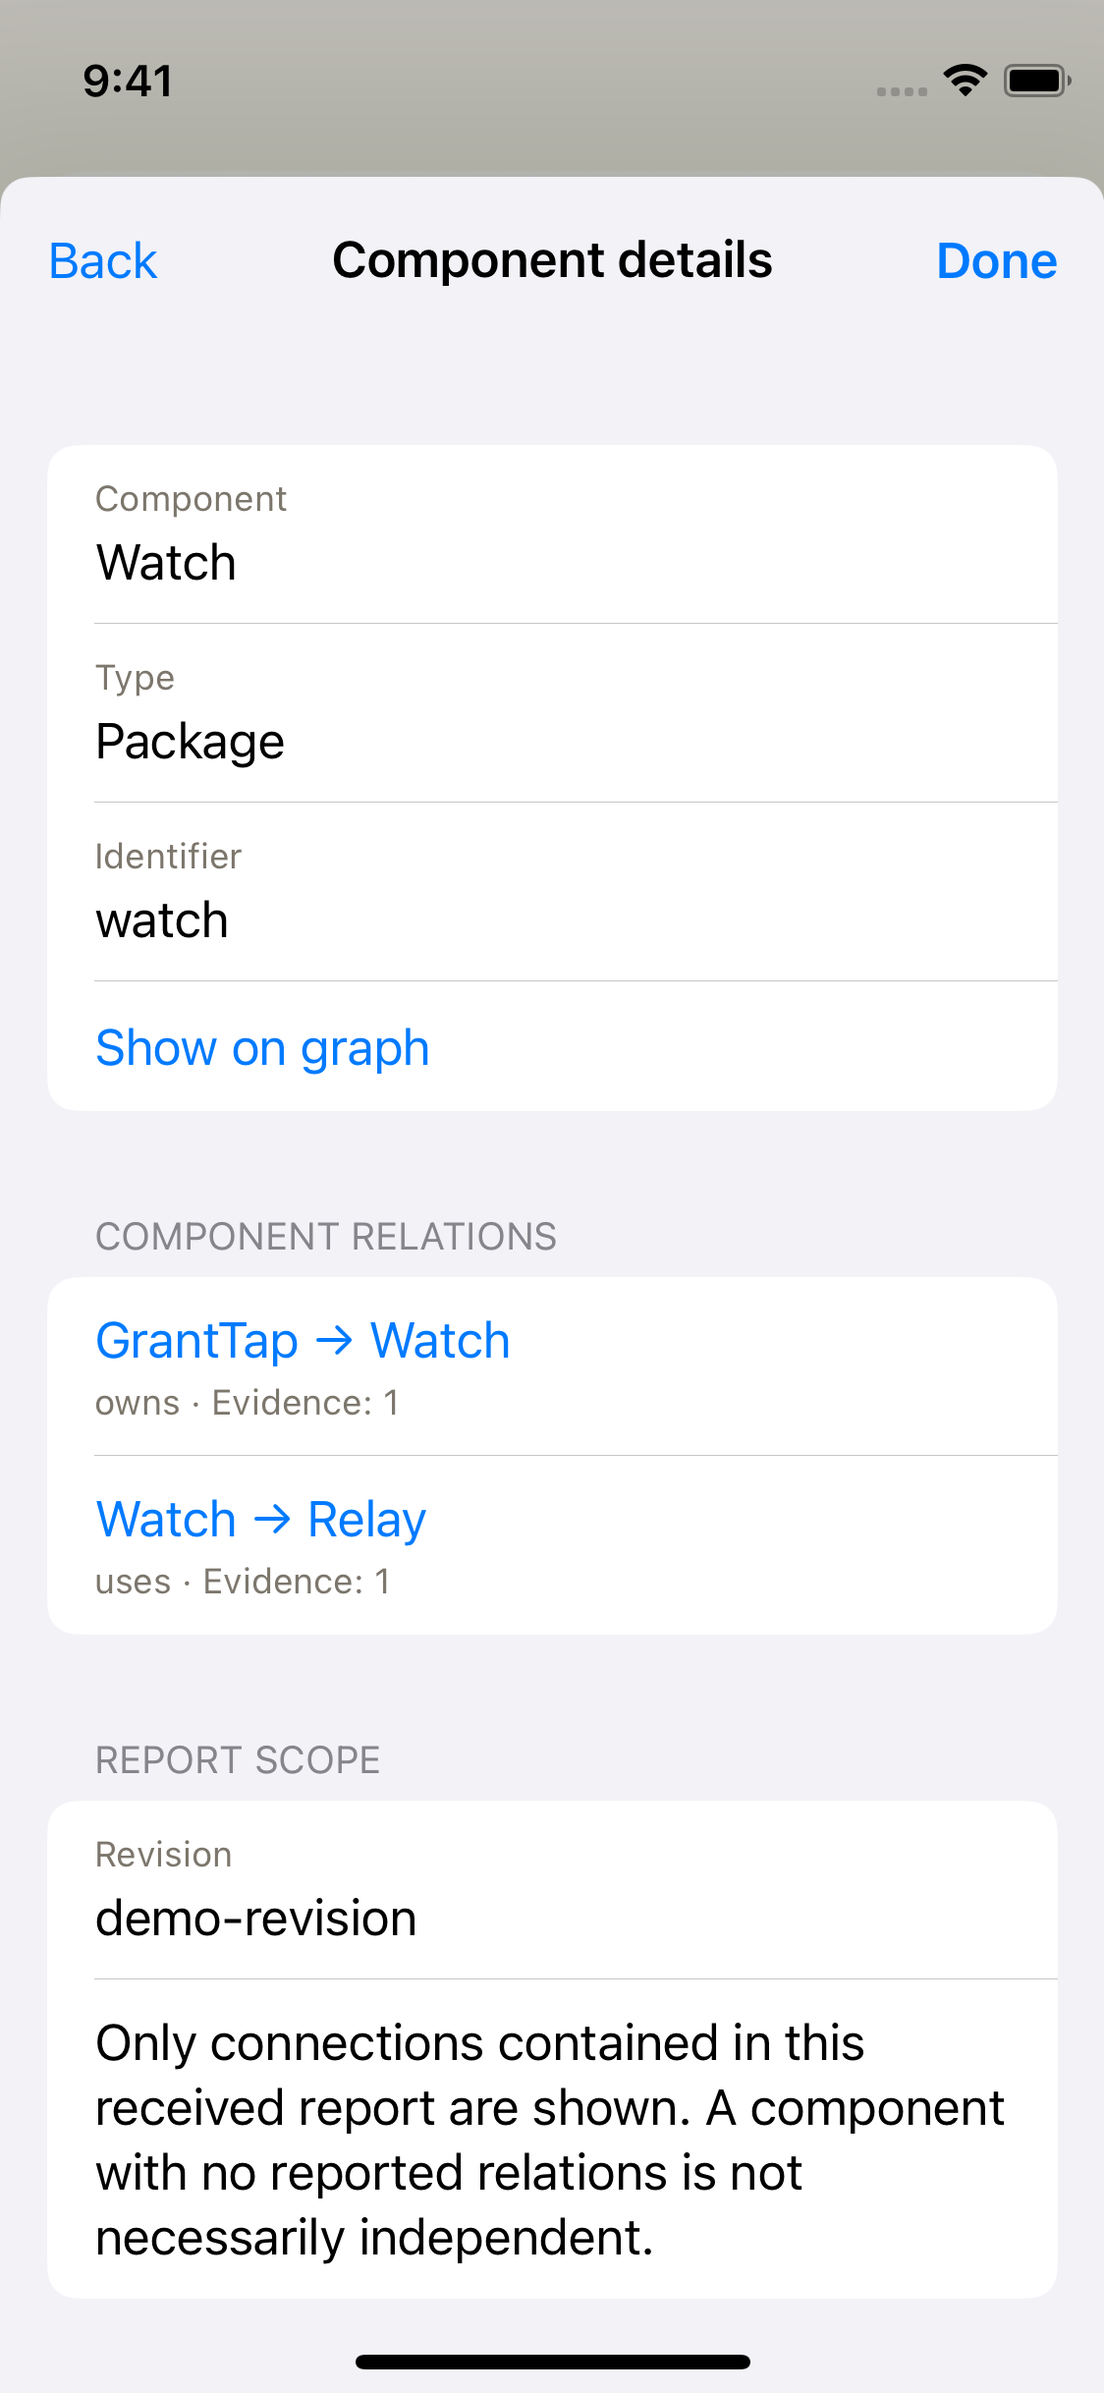
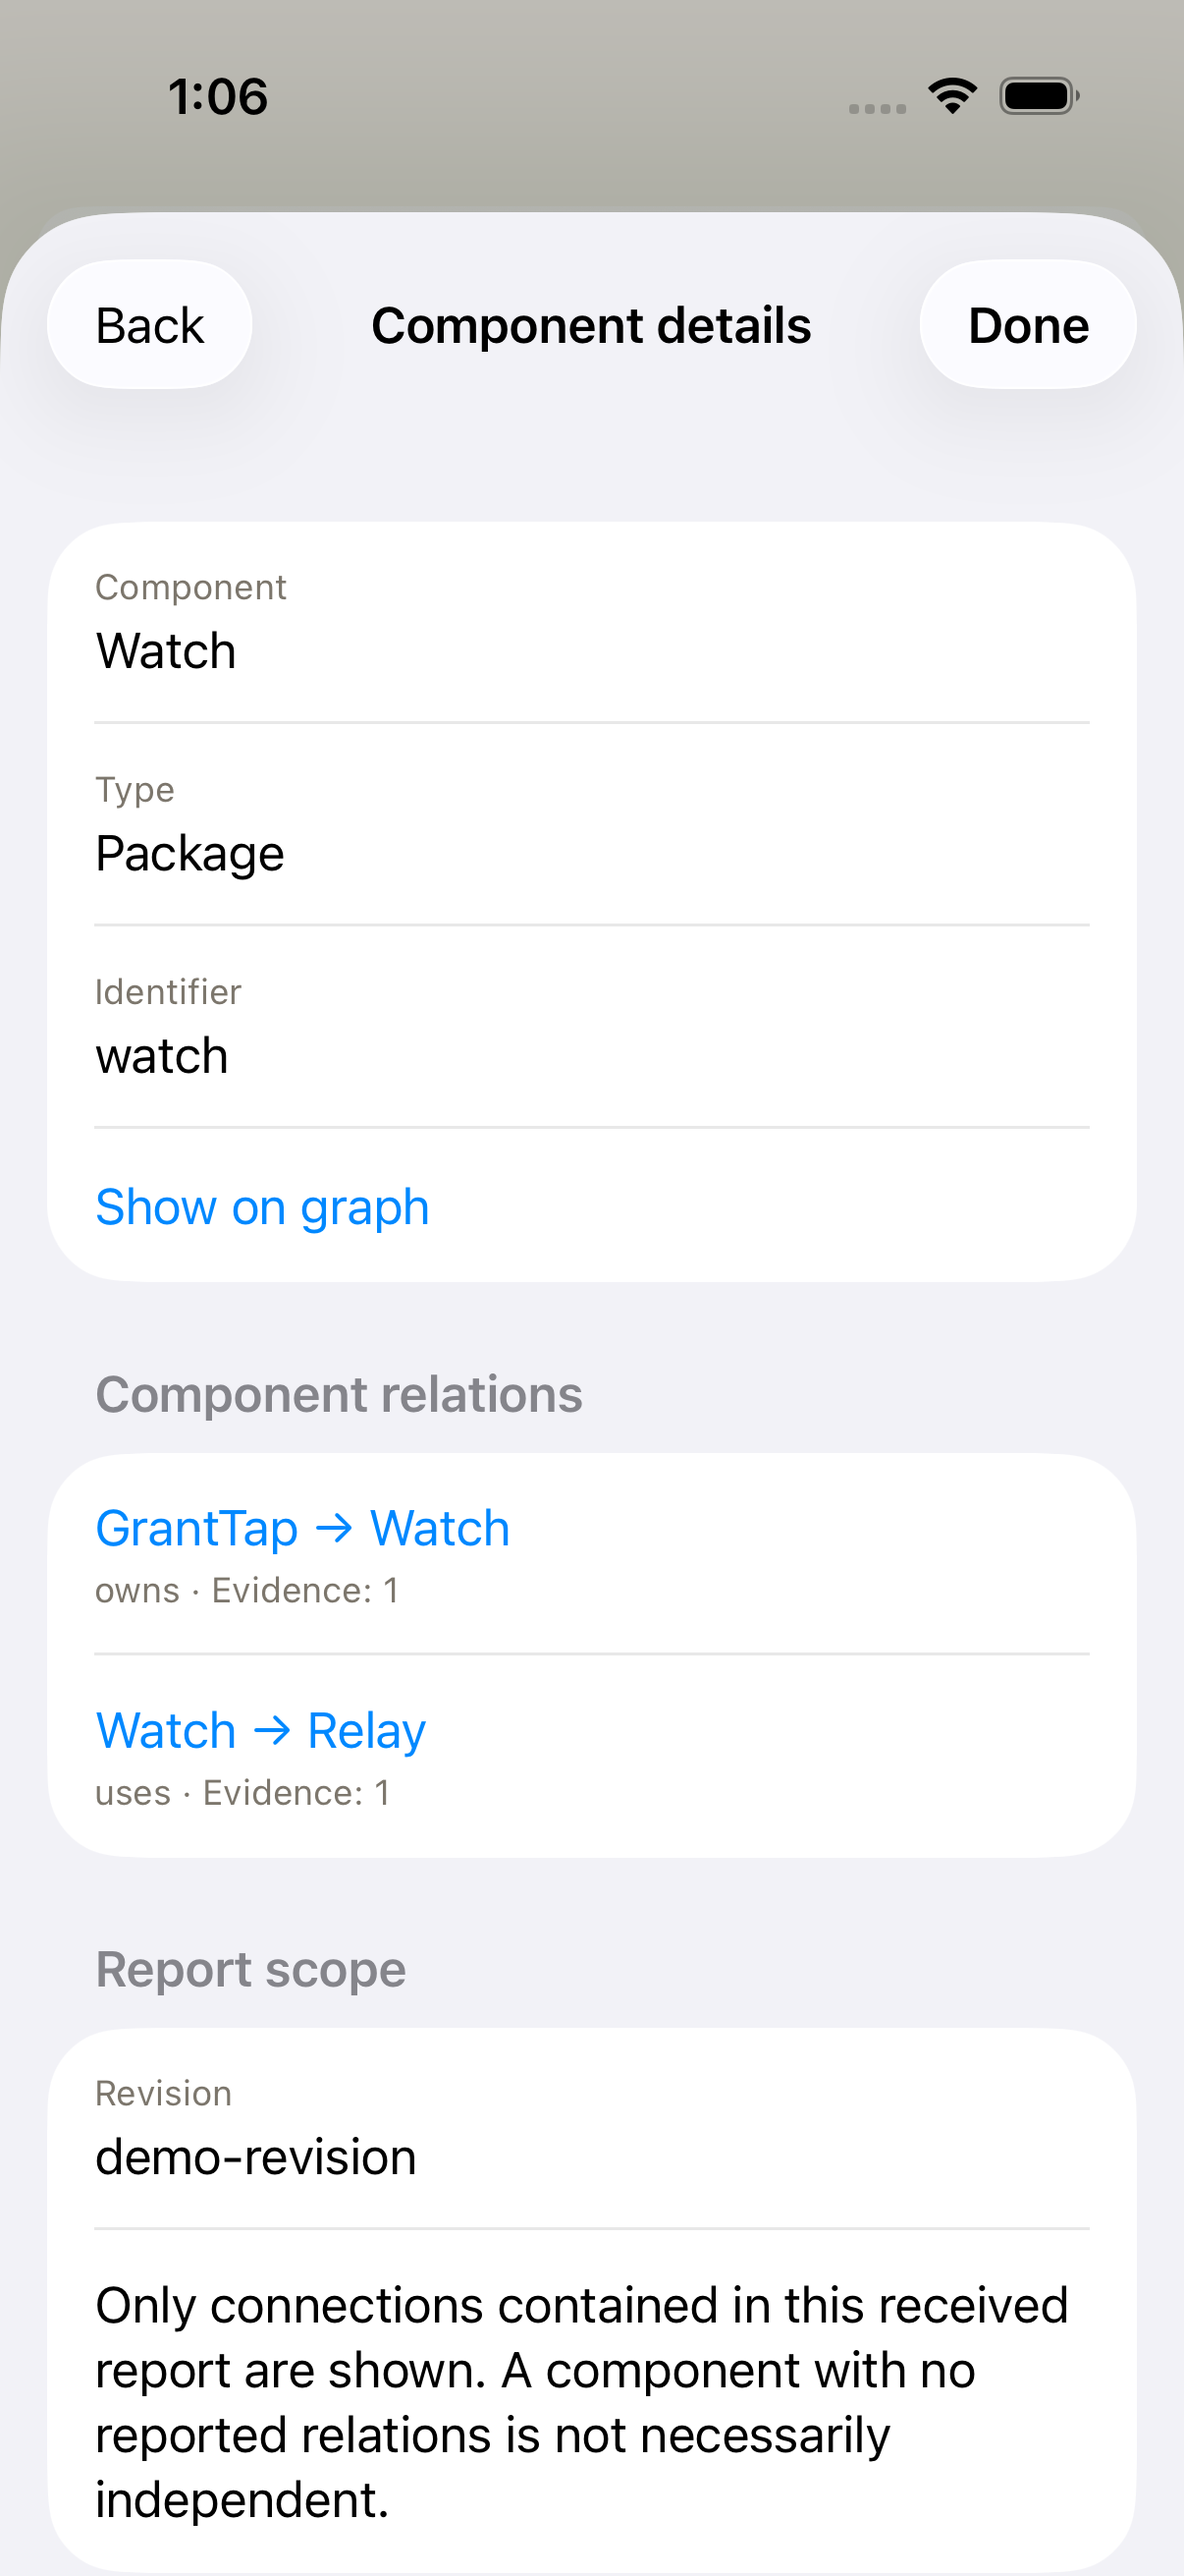
Explain architecture refresh and chat file and agent review

Changed region(s): [[0.0623, 0.1872, 0.903, 0.9984], [0.0, 0.0312, 1.0, 0.156]]

diff --git a/app/blog/stories/research/index.ts b/app/blog/stories/research/index.ts
@@ -40,14 +40,14 @@ export const cortexResearch = composeStory({
 export const meshResearch = composeStory({
   slug: "project-mesh-memory-handoff-less-duplicate-work", date: "2026-10-10",
   cover: `${prefix}mesh-cover.webp`, inlineIllustration: `${prefix}mesh-infographic.webp`,
-  additionalIllustration: `${prefix}mesh-flow.webp`, screenshot: "/product/iphone-handoff.png",
+  additionalIllustration: `${prefix}mesh-flow.webp`, screenshot: "/product/iphone-chat-work-summary.png",
   en: {
     title: "Project Mesh: preserve work instead of doing it twice",
     summary: "Observed claims, scoped memory and a stable Task help agents coordinate and continue across models and computers. We verified failed-attempt persistence through an Engine restart.",
     category: "Continuity", body: meshEn,
     illustrationCaption: "Infographic of Mesh reuse: observed work produces scoped claims and attributed memory; compact context and a handoff capsule carry relevant facts to the next Execution. It depicts the implemented flow, not a universal saving percentage.",
     additionalIllustrationCaption: "One Task, multiple Executions: provider sessions change while repository evidence, ownership and the remaining work preserve continuity.",
-    screenshotCaption: "GrantTap handoff interface with deterministic sample data. A capsule prepares continuation; destination readiness and the actual checkout remain necessary.",
+    screenshotCaption: "GrantTap build181 chat with deterministic sample data. Files opens the current reply's recorded changes; Agents opens nested Execution conversations. This capture does not contain a user's private Task.",
     closing: "The durable unit is the Task. Its evidence, visibility and local route make continuity useful when a conversation changes.",
     sources: [runtime, { label: "GrantTap handoff guide", url: "/blog/task-continuity-beyond-an-agent-session" }, cortex],
   },
@@ -57,7 +57,7 @@ export const meshResearch = composeStory({
     category: "Продолжение работы", body: meshRu,
     illustrationCaption: "Инфографика повторного использования Mesh: наблюдаемая работа формирует scoped claims и память с источником; компактный контекст и handoff capsule передают факты следующему Execution. Это реализованный путь, не универсальный процент экономии.",
     additionalIllustrationCaption: "Одна Task и несколько Execution: сессии провайдеров меняются, а evidence репозитория, ответственность и оставшаяся работа поддерживают продолжение.",
-    screenshotCaption: "Интерфейс handoff GrantTap на детерминированных тестовых данных. Capsule готовит продолжение; готовность получателя и настоящее состояние checkout остаются необходимыми.",
+    screenshotCaption: "Чат GrantTap сборки181 на детерминированных тестовых данных. Files открывает записанные изменения текущего ответа, Agents — вложенные разговоры Execution. Снимок не содержит приватной Task пользователя.",
     closing: "Устойчивая единица — Task. Её evidence, видимость и локальный маршрут позволяют полезно продолжать работу после смены разговора.",
     sources: [runtime, { label: "Передача Task в GrantTap", url: "/blog/task-continuity-beyond-an-agent-session" }, cortex],
   },

diff --git a/app/blog/stories/research/cortex-en.ts b/app/blog/stories/research/cortex-en.ts
@@ -59,6 +59,10 @@ Selecting a component highlights its neighbours. Its card links to connected com
 
 Health and Graph share the state of an architecture build. Active Projects request missing or changed reports automatically. An explicit rebuild receives its own receipt from the computer; a periodic publication of a cached graph cannot acknowledge that request. When two phones ask to rebuild the same Project, the computer performs one analysis and returns a receipt to each controller. Received reports and relations stay on the device with the Mesh for offline inspection.
 
+The build card combines the action, progress and explanation in one place. During a rebuild, the last saved map stays visible. A transport failure ends with a retry action; the phone does not keep an indefinite spinner waiting for a computer that has not accepted the request. The information sheet explains automatic refresh and the difference between the repository's Git revision and the analysis content fingerprint. These identifiers serve separate checks: the Git revision locates source, while the fingerprint identifies the analysed content.
+
+The MCP persists usable analysis reports privately on the computer and reuses them after a runtime restart. A new report replaces the saved result when analysis completes. Work is scheduled per repository, so a ready Project can publish its report while another Project is still being analysed. Multiple repository reports share the delivery budget, preserving room for each repository and the Mesh metadata. A partial or unavailable result retains its reported status; it cannot become a complete architecture merely because a reply arrived.
+
 Repository analysis uses a separate Engine connection, keeping policy and Backbone requests available while Weavatrix works. Chat catalogs also continue independently of background Mesh enrichment. Architecture can therefore support context preparation while user decisions remain responsive. A partial report keeps its partial status and exposes the components, relations and code files that are available.
 
 The report information sheet explains gestures, the colour legend, Weavatrix version, revision and report scope. COMPLETE describes the analysis inputs that were processed; it does not establish that every repository dependency is known. Partial reports retain their explicit scope and received versus declared component and relation counts. A component without reported connections is not necessarily independent: the analyser may lack a required input or support for that relationship.

diff --git a/app/blog/stories/research/mesh-en.ts b/app/blog/stories/research/mesh-en.ts
@@ -15,6 +15,12 @@ GrantTap can derive useful facts from native activity it already observes. Suppo
 
 Observation has a defined boundary. The system does not turn every shell command into a verified file write, or treat a chosen capability as proof that it was used. A tool count from a transcript is an observed count with that source's limitations. A model's statement remains a report. These distinctions improve reuse: a later Execution can consult an observed path, an explicit decision, and a reported conclusion without confusing their strengths. Economy comes from avoiding repeated mechanical collection and preserving known facts, while tests and source inspection still establish whether a proposed implementation behaves correctly.
 
+## Inspect the work inside a chat
+
+The chat places Files and Agents directly above the composer. Files opens the changes observed in the current reply, with addition and deletion counts and an expandable diff when the provider supplied one. All Files opens the Task's known checkout as a folder tree, with paged file previews. A preview already received is saved privately on the device and can reopen offline; reading a new path still requires its computer. The computer resolves the Task's admitted checkout and rejects paths outside it, external symlinks and protected credential files.
+
+Agents opens the Execution's nested conversations and their known messages. This makes delegated work visible inside the Task. Files, diffs and agents keep their source attribution: the interface does not add historical edit counts to a new reply or attribute a child's changes to its parent. These inspection actions help a person see where work happened before asking the model to repeat a summary.
+
 ## File claims reveal overlap early
 
 A claim helps answer a concrete question: is another Execution already working on this resource? Exact overlap in the same repository and checkout has a different meaning from similar paths in independent worktrees. Logical overlap across checkouts can still be relevant to a later merge, and neighboring module activity may deserve a warning without proving a direct conflict. GrantTap's observed claim tests exercise these distinctions instead of comparing filenames alone. Claims also have an expiry and ownership, so yesterday's activity does not permanently block a resource or falsely imply that a chat is still working there.

diff --git a/README.md b/README.md
@@ -159,6 +159,11 @@ are explicitly marked as fixtures and do not claim a live repository scan.
 Generated editorial images in `public/visuals/` and the journal are captioned
 as illustrations rather than product captures.
 
+The architecture details and chat Files/Agents captures were refreshed from
+native build181 on 2026-10-13 with deterministic test data. The chat exposes
+Modified diffs, the Task checkout tree, retained file previews and nested
+agent conversations above the composer.
+
 The Mac client source and its end-user license are in the
 [GrantTap Apple repository](https://github.com/sergii-ziborov/granttap).
 
